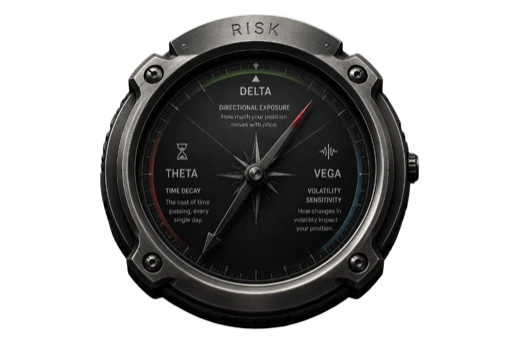
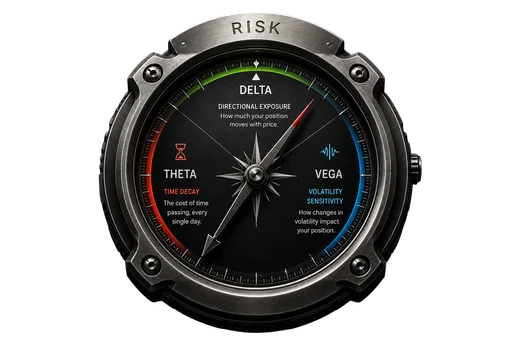
feat: new Greeks, in Plain English artwork
A steel risk instrument with DELTA, THETA and VEGA on the dial, replacing
the prism. The source is 1.448:1 rather than the 1.459:1 it replaces, so
it is resized on its own aspect to 512x354 and `imageHeight` moves 351 to
354 — squashing it to the old ratio would have been the easy wrong answer.
55.9% of the source is transparent, which matters because this is one of
the three cards that do not take `mix-blend-lighten`.

4.0% chromatic, against 1.4% for the prism: the green/red/blue arcs are
small and the body stays steel, so the card still reads neutral until it
reaches the centre of the slider.

Noted rather than missed: the dial carries body prose — "How much your
position moves with price" and similar — which is illegible at card size.
Only DELTA, THETA and VEGA resolve. That costs nothing here because the
card's own copy already says the same thing in words, which is the point
of the card.

diff --git a/src/data/lqip.ts b/src/data/lqip.ts
@@ -11,7 +11,7 @@ export const LQIP: Readonly<Record<string, string>> = {
[8 lines of base64/hex data omitted]

diff --git a/src/data/capabilities.ts b/src/data/capabilities.ts
@@ -58,7 +58,7 @@ export const capabilityCards: CapabilityCard[] = [
     badge: 'Risk',
     image: '/images/capabilities/greeks_prism.webp',
     imageWidth: 512,
-    imageHeight: 351,
+    imageHeight: 354,
   },
   {
     id: 'your-workspace',
